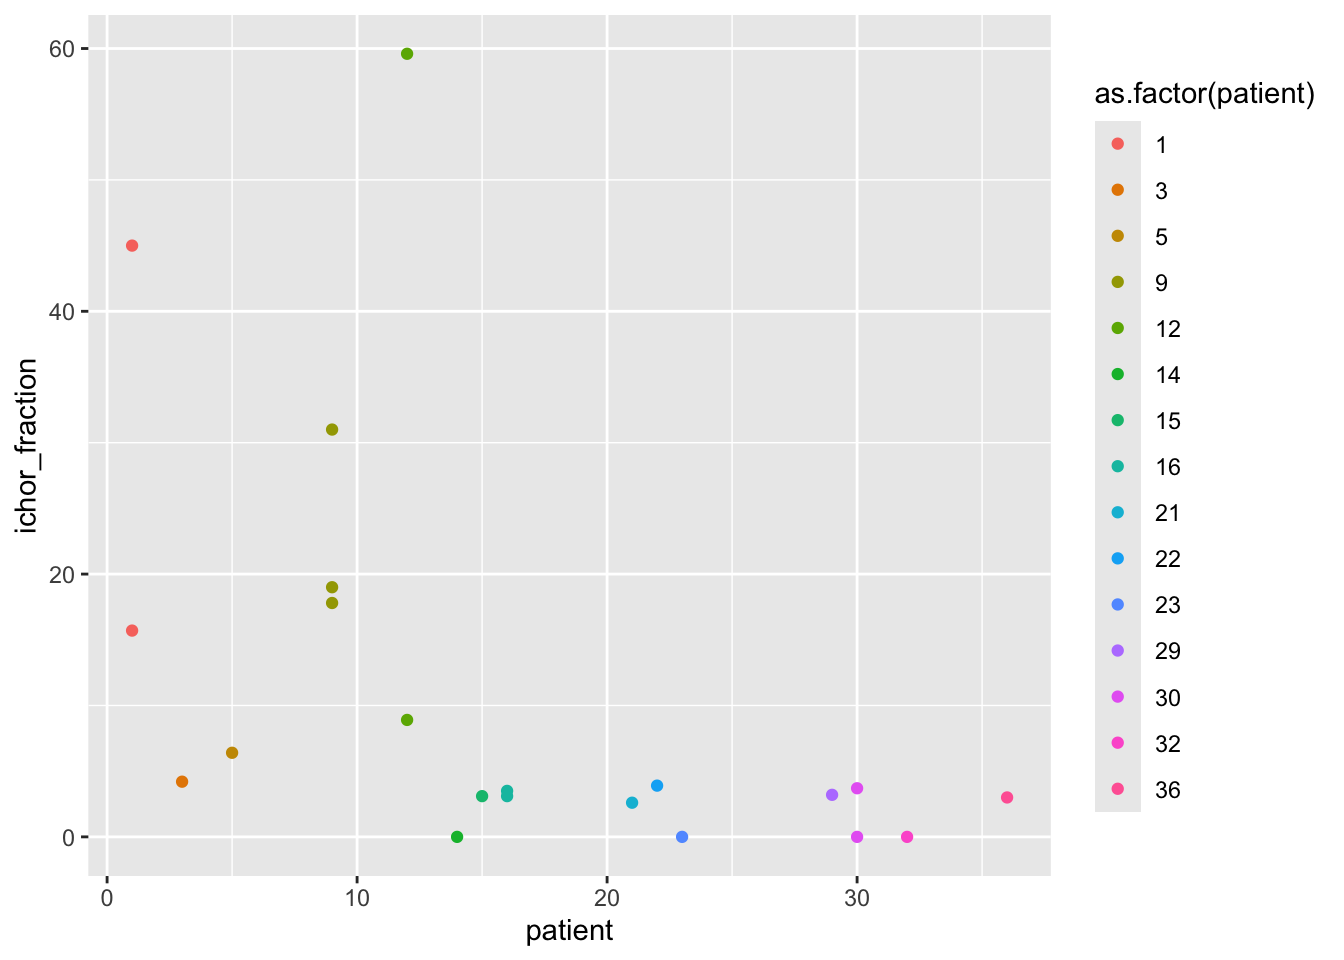
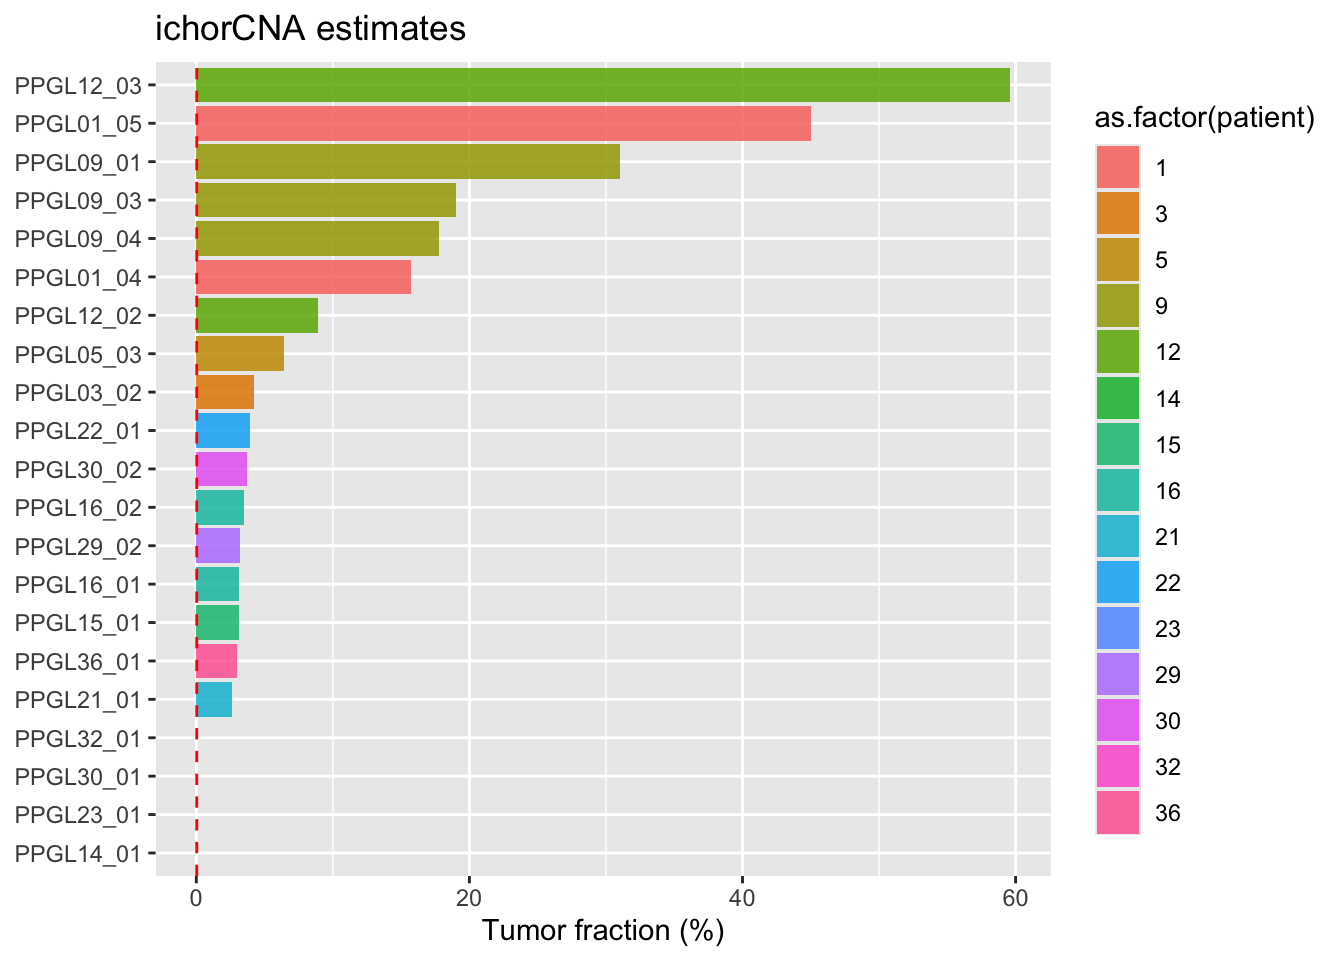
Build site.

diff --git a/docs/00_ObtainData.html b/docs/00_ObtainData.html
@@ -521,15 +521,15 @@ project makes it easier to run your code on other machines.</p>
 <div class="panel panel-default">
 <div class="panel-heading">
 <p class="panel-title">
-<a data-toggle="collapse" data-parent="#workflowr-checks" href="#strongRepositoryversionstrongahrefhttpsgithubcomcaitlinpage3cfnanotreeb59aa416ba68d3b61815400c650e7562ae48dedctargetblankb59aa41a">
+<a data-toggle="collapse" data-parent="#workflowr-checks" href="#strongRepositoryversionstrongahrefhttpsgithubcomcaitlinpage3cfnanotreecfab95a8f8f4a83aa486045f15eddf0c093dc8c3targetblankcfab95aa">
 <span class="glyphicon glyphicon-ok text-success"
 aria-hidden="true"></span> <strong>Repository version:</strong>
-<a href="https://github.com/caitlinpage/3_cf_nano/tree/b59aa416ba68d3b61815400c650e7562ae48dedc" target="_blank">b59aa41</a>
+<a href="https://github.com/caitlinpage/3_cf_nano/tree/cfab95a8f8f4a83aa486045f15eddf0c093dc8c3" target="_blank">cfab95a</a>
 </a>
 </p>
 </div>
 <div
[2 lines of base64/hex data omitted]
 class="panel-collapse collapse">
 <div class="panel-body">
 <p>
@@ -539,7 +539,7 @@ reproducibility.
 </p>
 <p>
 The results in this page were generated with repository version
-<a href="https://github.com/caitlinpage/3_cf_nano/tree/b59aa416ba68d3b61815400c650e7562ae48dedc" target="_blank">b59aa41</a>.
+<a href="https://github.com/caitlinpage/3_cf_nano/tree/cfab95a8f8f4a83aa486045f15eddf0c093dc8c3" target="_blank">cfab95a</a>.
 See the <em>Past versions</em> tab to see a history of the changes made
 to the R Markdown and HTML files.
 </p>
@@ -559,7 +559,6 @@ Ignored files:
     Ignored:    .Rproj.user/
     Ignored:    analysis/.DS_Store
     Ignored:    analysis/claude_log/
-    Ignored:    analysis/figure/
     Ignored:    data/atlas/
     Ignored:    data/cfnano_paper/
     Ignored:    data/ncbi_dataset/
@@ -635,6 +634,40 @@ Message
 </tr>
 </thead>
 <tbody>
+<tr>
+<td>
+Rmd
+</td>
+<td>
+<a href="https://github.com/caitlinpage/3_cf_nano/blob/cfab95a8f8f4a83aa486045f15eddf0c093dc8c3/analysis/00_ObtainData.Rmd" target="_blank">cfab95a</a>
+</td>
+<td>
+Caitlin Page
+</td>
+<td>
+2026-10-07
+</td>
+<td>
+wflow_publish("analysis/00_ObtainData.Rmd")
+</td>
+</tr>
+<tr>
+<td>
+html
+</td>
+<td>
+<a href="https://rawcdn.githack.com/caitlinpage/3_cf_nano/988b3187c3a6ea62401797cb6c63e6166f5b11ef/docs/00_ObtainData.html" target="_blank">988b318</a>
+</td>
+<td>
+Caitlin Page
+</td>
+<td>
+2026-10-07
+</td>
+<td>
+Build site.
+</td>
+</tr>
 <tr>
 <td>
 Rmd
@@ -933,29 +966,97 @@ genotype &quot;unknown_tested&quot; &quot;SDHB&quot; &quot;SDHB&quot; &quot;unkn
 patient  &quot;30&quot;   &quot;32&quot;   &quot;36&quot;  
 genotype &quot;SDHD&quot; &quot;SDHD&quot; &quot;SDHA&quot;</code></pre>
 <pre class="r"><code>df %&gt;%
-  ggplot(aes(x = patient, y= ichor_fraction, colour = as.factor(patient))) +
-  geom_point()</code></pre>
-<p><img src="figure/00_ObtainData.Rmd/unnamed-chunk-7-1.png" alt="" width="672" style="display: block; margin: auto;" /></p>
-<pre class="r"><code>df %&gt;%
 ggplot(aes(x = reorder(sample_id, ichor_fraction), 
                     y = ichor_fraction, fill = as.factor(patient))) +
   geom_col(alpha = 0.85) +
  # geom_errorbar(aes(ymin = tf_lower, ymax = tf_upper), width = 0.3) +
   geom_hline(yintercept = 0.03, linetype = &quot;dashed&quot;, colour = &quot;red&quot;) + # detection threshold
   coord_flip() +
-  scale_y_continuous(labels = scales::percent) +
-  labs(x = NULL, y = &quot;Tumor fraction&quot;, title = &quot;ichorCNA estimates&quot;)</code></pre>
-<p><img src="figure/00_ObtainData.Rmd/unnamed-chunk-8-1.png" alt="" width="672" style="display: block; margin: auto;" /></p>
+  labs(x = NULL, y = &quot;Tumor fraction (%)&quot;, title = &quot;ichorCNA estimates&quot;)</code></pre>
+<p><img src="figure/00_ObtainData.Rmd/unnamed-chunk-7-1.png" alt="" width="672" style="display: block; margin: auto;" /></p>
+<p>
+<button type="button" class="btn btn-default btn-xs btn-workflowr btn-workflowr-fig" data-toggle="collapse" data-target="#fig-unnamed-chunk-7-1">
+Past versions of unnamed-chunk-7-1.png
+</button>
+</p>
+<div id="fig-unnamed-chunk-7-1" class="collapse">
+<div class="table-responsive">
+<table class="table table-condensed table-hover">
+<thead>
+<tr>
+<th>
+Version
+</th>
+<th>
+Author
+</th>
+<th>
+Date
+</th>
+</tr>
+</thead>
+<tbody>
+<tr>
+<td>
+<a href="https://github.com/caitlinpage/3_cf_nano/blob/988b3187c3a6ea62401797cb6c63e6166f5b11ef/docs/figure/00_ObtainData.Rmd/unnamed-chunk-7-1.png" target="_blank">988b318</a>
+</td>
+<td>
+Caitlin Page
+</td>
+<td>
+2026-10-07
+</td>
+</tr>
+</tbody>
+</table>
+</div>
+</div>
 <pre class="r"><code>df %&gt;% ggplot(aes(x = sample_no, y = ichor_fraction, group = patient)) +
   geom_line(colour = &quot;grey70&quot;, linewidth = 0.7) +
   geom_point(aes(colour = as.factor(patient)), size = 3) +
   geom_hline(yintercept = 0.03, linetype = &quot;dashed&quot;, colour = &quot;red&quot;, linewidth = 0.5) +
   scale_x_continuous(breaks = sort(unique(df$sample_no))) +
-  scale_y_continuous(labels = scales::percent, limits = c(0, NA)) +
-  labs(x = &quot;Sample&quot;, y = &quot;Tumor fraction&quot;, colour = &quot;Patient&quot;) +
+  labs(x = &quot;Sample&quot;, y = &quot;Tumor fraction (%)&quot;, colour = &quot;Patient&quot;) +
   theme_bw() +
   theme(legend.position = &quot;right&quot;)</code></pre>
-<p><img src="figure/00_ObtainData.Rmd/unnamed-chunk-9-1.png" alt="" width="672" style="display: block; margin: auto;" /></p>
+<p><img src="figure/00_ObtainData.Rmd/unnamed-chunk-8-1.png" alt="" width="672" style="display: block; margin: auto;" /></p>
+<p>
+<button type="button" class="btn btn-default btn-xs btn-workflowr btn-workflowr-fig" data-toggle="collapse" data-target="#fig-unnamed-chunk-8-1">
+Past versions of unnamed-chunk-8-1.png
+</button>
+</p>
+<div id="fig-unnamed-chunk-8-1" class="collapse">
+<div class="table-responsive">
+<table class="table table-condensed table-hover">
+<thead>
+<tr>
+<th>
+Version
+</th>
+<th>
+Author
+</th>
+<th>
+Date
+</th>
+</tr>
+</thead>
+<tbody>
+<tr>
+<td>
+<a href="https://github.com/caitlinpage/3_cf_nano/blob/988b3187c3a6ea62401797cb6c63e6166f5b11ef/docs/figure/00_ObtainData.Rmd/unnamed-chunk-8-1.png" target="_blank">988b318</a>
+</td>
+<td>
+Caitlin Page
+</td>
+<td>
+2026-10-07
+</td>
+</tr>
+</tbody>
+</table>
+</div>
+</div>
 <ul>
 <li>select mix of male and female samples for analysis</li>
 </ul>
